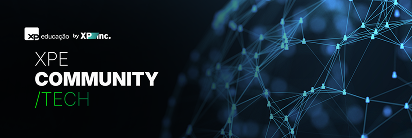
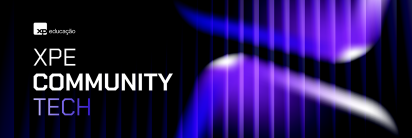
feat: configura links sociais e ajusta identidade do rodape
Troca o icone do YouTube por Globe e renomeia a chave para xp, apontando para o site da XP Educacao. Adiciona target=_blank e rel=noopener noreferrer nos tres links.

Inverte o badge do Discord para fundo azul com texto branco e remove a repeticao do nome no rodape.

Banners reexportados: desktop de 586 KB para 328 KB, mobile para 50 KB.

diff --git a/src/routes/index.tsx b/src/routes/index.tsx
@@ -2,11 +2,11 @@ import { createFileRoute } from "@tanstack/react-router";
 import {
   CalendarDays,
   Check,
+  Globe,
   Instagram,
   Linkedin,
   MessagesSquare,
   Users,
-  Youtube,
 } from "lucide-react";
 import { community, communityBenefits, faq, footer, hero, notices, sections } from "@/data/event";
 import { images } from "@/data/images";
@@ -24,7 +24,7 @@ export const Route = createFileRoute("/")({
 
 const socialIcons = {
   instagram: Instagram,
-  youtube: Youtube,
+  xp: Globe,
   linkedin: Linkedin,
 } as const;
 
@@ -46,66 +46,65 @@ function Index() {
         </div>
       </div>
 
-{/* 1. HERO */}
-<section className="px-4 py-12 sm:px-6 sm:py-16">
-  <div className="mx-auto w-full max-w-5xl">
-    <h1 className="text-3xl font-bold tracking-tight text-foreground sm:text-4xl">
-      {hero.title}
-    </h1>
-    <div className="mt-5 max-w-3xl space-y-4">
-      {hero.paragraphs.map((paragraph) => (
-        <p key={paragraph} className="text-base leading-relaxed text-muted-foreground">
-          {paragraph}
-        </p>
-      ))}
-    </div>
-    <div className="mt-8">
-      <ActionLink href={`#${AGENDA_ANCHOR}`} variant="solid">
-        <CalendarDays className="size-4" aria-hidden="true" />
-        {hero.ctaLabel}
-      </ActionLink>
-    </div>
-  </div>
-</section>
+      {/* 1. HERO */}
+      <section className="px-4 py-12 sm:px-6 sm:py-16">
+        <div className="mx-auto w-full max-w-5xl">
+          <h1 className="text-3xl font-bold tracking-tight text-foreground sm:text-4xl">
+            {hero.title}
+          </h1>
+          <div className="mt-5 max-w-3xl space-y-4">
+            {hero.paragraphs.map((paragraph) => (
+              <p key={paragraph} className="text-base leading-relaxed text-muted-foreground">
+                {paragraph}
+              </p>
+            ))}
+          </div>
+          <div className="mt-8">
+            <ActionLink href={`#${AGENDA_ANCHOR}`} variant="solid" className="text-white">
+              <CalendarDays className="size-4" aria-hidden="true" />
+              {hero.ctaLabel}
+            </ActionLink>
+          </div>
+        </div>
+      </section>
 
-{/* 2. COMUNIDADE */}
-<Section className="pt-4 sm:pt-6">
-  
-  <div className="grid gap-8 lg:grid-cols-2 lg:items-center">
-    <div>
-      <SectionTitle
-        title="Comunidade Tech"
-        subtitle="Um espaço vivo para trocar com quem está estudando e construindo junto com você."
-      />
-      <ul className="space-y-3">
-        {communityBenefits.map((benefit) => (
-          <li key={benefit} className="flex items-start gap-3 text-sm text-muted-foreground">
-            <Check className="mt-0.5 size-4 shrink-0 text-primary" aria-hidden="true" />
-            <span className="min-w-0">{benefit}</span>
-          </li>
-        ))}
-      </ul>
-    </div>
-    <div className="rounded-2xl border border-primary/40 bg-accent/40 p-7 shadow-[var(--shadow-featured)] sm:p-9">
-      <Badge className="bg-white text-[#5865F2]">
-        <DiscordIcon className="size-4 text-[#5865F2]" />
-        {community.badge}
-      </Badge>
-      <h3 className="mt-4 text-xl font-bold text-foreground">{community.title}</h3>
-      <p className="mt-2 text-sm leading-relaxed text-muted-foreground">{community.text}</p>
-      <div className="mt-6">
-        <ActionLink href={links.community} variant="solid" className="w-full sm:w-auto">
-          <Users className="size-4" aria-hidden="true" />
-          {community.buttonLabel}
-        </ActionLink>
-      </div>
-    </div>
-  </div>
-</Section>
-
-      
-
-      
+      {/* 2. COMUNIDADE */}
+      <Section className="pt-4 sm:pt-6">
+        <div className="grid gap-8 lg:grid-cols-2 lg:items-center">
+          <div>
+            <SectionTitle
+              title="Comunidade Tech"
+              subtitle="Um espaço vivo para trocar com quem está estudando e construindo junto com você."
+            />
+            <ul className="space-y-3">
+              {communityBenefits.map((benefit) => (
+                <li key={benefit} className="flex items-start gap-3 text-sm text-muted-foreground">
+                  <Check className="mt-0.5 size-4 shrink-0 text-primary" aria-hidden="true" />
+                  <span className="min-w-0">{benefit}</span>
+                </li>
+              ))}
+            </ul>
+          </div>
+          <div className="rounded-2xl border border-primary/40 bg-accent/40 p-7 shadow-[var(--shadow-featured)] sm:p-9">
+            <Badge className="bg-[#5865F2] text-white">
+              <DiscordIcon className="size-4 text-white" />
+              {community.badge}
+            </Badge>
+            <h3 className="mt-4 text-xl font-bold text-foreground">{community.title}</h3>
+            <p className="mt-2 text-sm leading-relaxed text-muted-foreground">{community.text}</p>
+            <div className="mt-6">
+              <ActionLink
+                href={links.community}
+                variant="solid"
+                className="w-full sm:w-auto text-white"
+              >
+                <Users className="size-4" aria-hidden="true" />
+                {community.buttonLabel}
+              </ActionLink>
+            </div>
+          </div>
+        </div>
+      </Section>
 
       {/* 3. AVISOS */}
       <Section alt>
@@ -161,6 +160,8 @@ function Index() {
                 <li key={name}>
                   <a
                     href={url}
+                    target="_blank"
+                    rel="noopener noreferrer"
                     aria-label={label}
                     className="inline-flex size-10 items-center justify-center rounded-full border border-border bg-card text-foreground transition-colors hover:bg-accent focus-visible:outline-2 focus-visible:outline-offset-2 focus-visible:outline-ring"
                   >
@@ -171,10 +172,7 @@ function Index() {
             })}
           </ul>
         </div>
-        <div className="mx-auto mt-6 w-full max-w-5xl border-t border-border pt-6 text-sm text-muted-foreground">
-          <p>{footer.institutional}</p>
-          <p className="mt-1">{footer.support}</p>
-        </div>
+        <div className="mx-auto mt-6 w-full max-w-5xl border-t border-border pt-6 text-sm text-muted-foreground"></div>
       </footer>
     </main>
   );

diff --git a/src/data/links.ts b/src/data/links.ts
@@ -10,9 +10,9 @@ export const links = {
   /** Botão "Entrar na Comunidade". */
   community: "https://discord.gg/ZfM3sFWrw",
   social: {
-    instagram: "#",
-    youtube: "#",
-    linkedin: "#",
+    instagram: "https://www.instagram.com/xpeducacao/",
+    xp: "https://www.xpeducacao.com.br/",
+    linkedin: "https://www.linkedin.com/school/xpeducacao/",
   },
 } as const;
 
